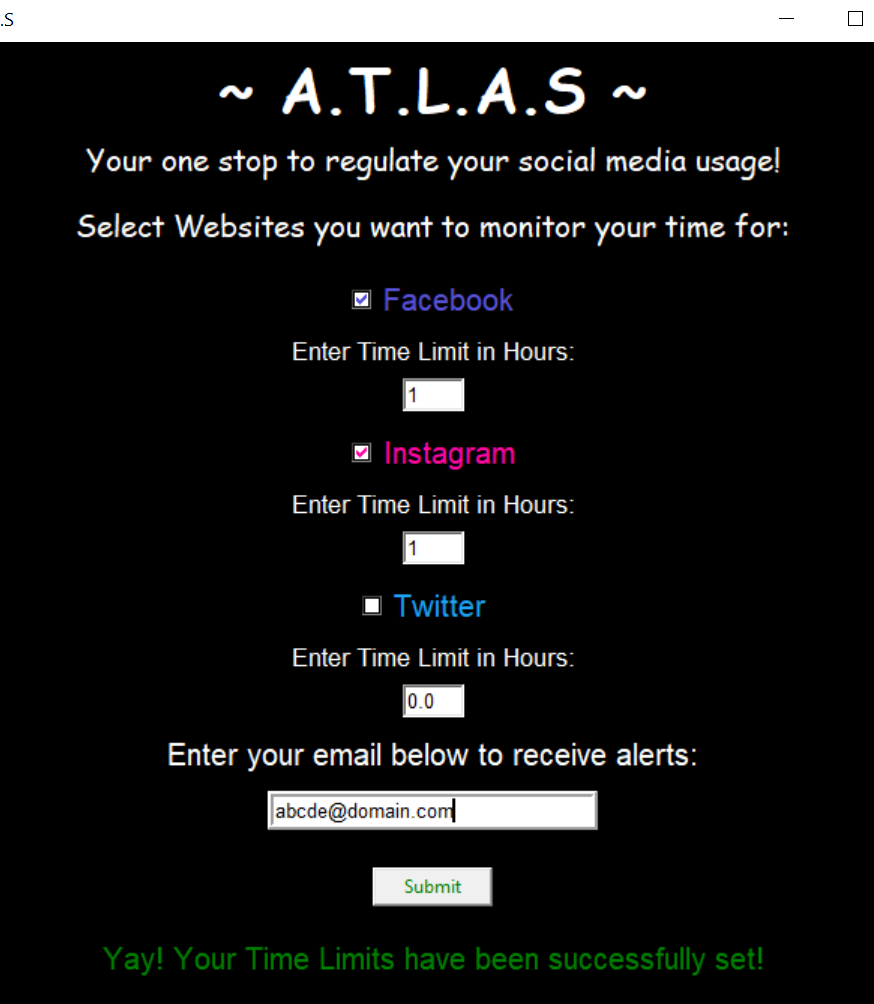
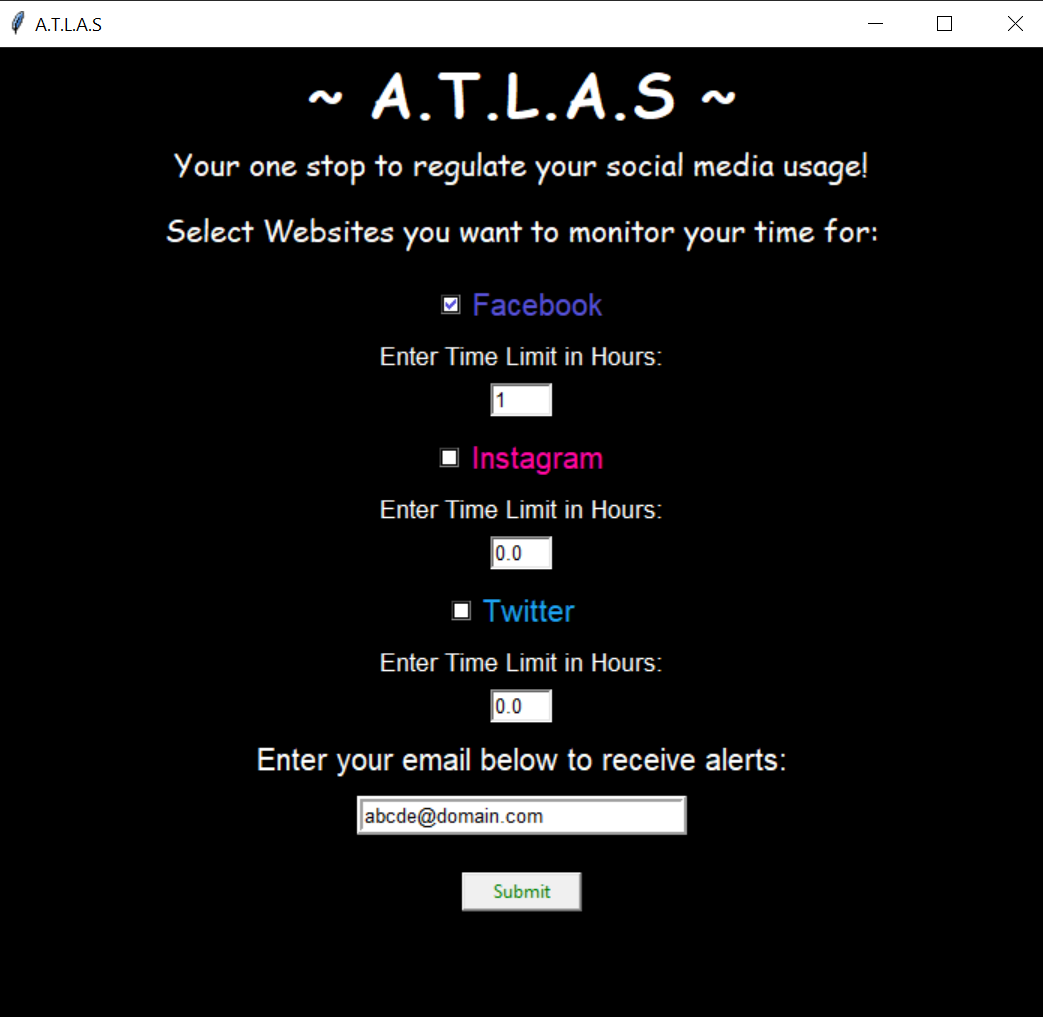
GUI update

diff --git a/main.py b/main.py
@@ -1,5 +1,7 @@
 from tkinter import *
+from tkinter import messagebox
 from _thread import *
+import time as t
 from SocialMedia.Facebook import main as m1
 from SocialMedia.Instagram import main as m2
 from SocialMedia.Twitter import main as m3
@@ -8,12 +10,9 @@ import os
 
 ## import env variables
 load_dotenv()
-
-
-def execute():
+def execute(): 
     if var1.get()==0 and var2.get()==0 and var3.get()==0:
-        l=Label(frame, text="Nothing has been selected-select atleast one website!", font=("Helvetica",15),bg="black",fg="red")
-        l.pack()
+        messagebox.showwarning("Error", "You have selected nothing-select atleast one website!") 
         return
     email=s4.get()
     if var1.get():
@@ -30,8 +29,7 @@ def execute():
         start_new_thread(m3,(time,email))
     print(var1.get(),var2.get(),var3.get())
     print(s1.get(),s2.get(),s3.get(),s4.get())
-    l=Label(frame, text="Yay! Your Time Limits have been successfully set!", font=("Helvetica",15),bg="black",fg="green")
-    l.pack()
+    messagebox.showinfo("Success", "Yay! Your time limits have been successfully set!") 
     
     
 
@@ -85,5 +83,6 @@ t3.pack(pady=5)
 l3.pack(fill=X,pady=5)
 t4.pack(pady=5)
 b.pack(pady=20)
-
+f=0
+g=0
 root.mainloop()
